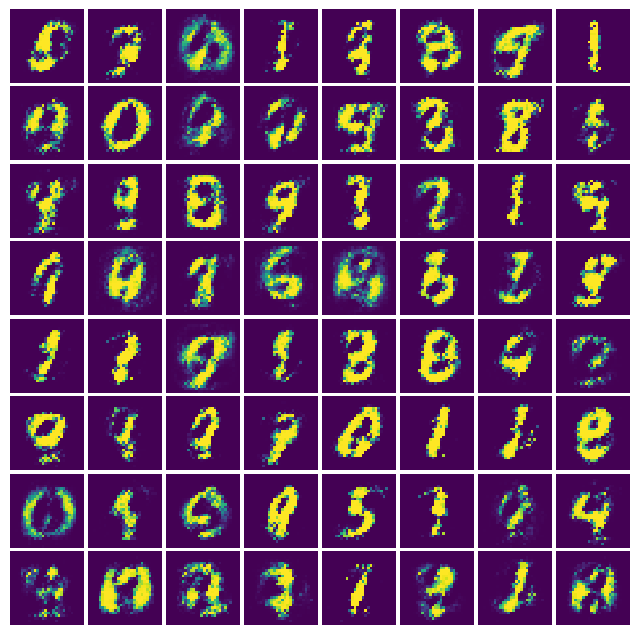
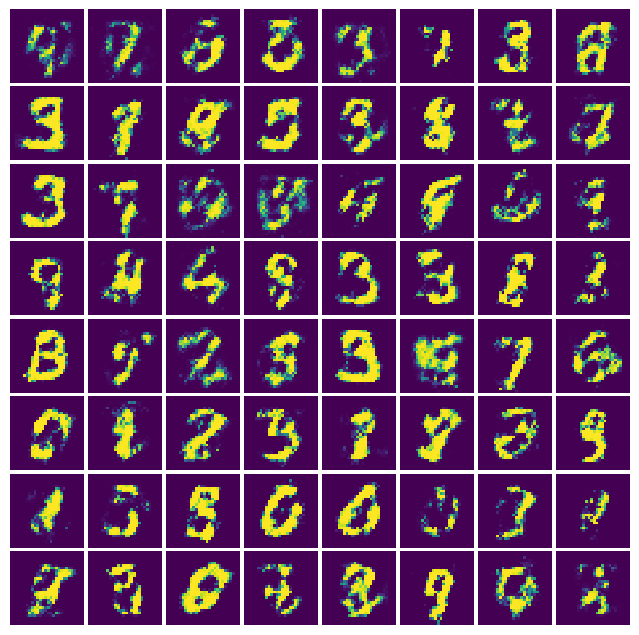
update generated output

diff --git a/main.py b/main.py
@@ -24,7 +24,7 @@ G_loss_function = nn.BCELoss()
 
 imageUtil = ImageUtil()
 
-epoch_size = 1000
+epoch_size = 10000
 for epoch in range(epoch_size):
     for i, data in enumerate(train_loader):
         real_data, real_label = data
@@ -85,7 +85,7 @@ for epoch in range(epoch_size):
 
             if i % 10 == 0:
                 print('{0}: G_loss is {1}'.format(i, G_loss))
-            if i % 500 == 0:
+            if i % 1000 == 0:
                 fake_data = fake_data.view(64, -1)
                 imageUtil.save(fake_data)
 
